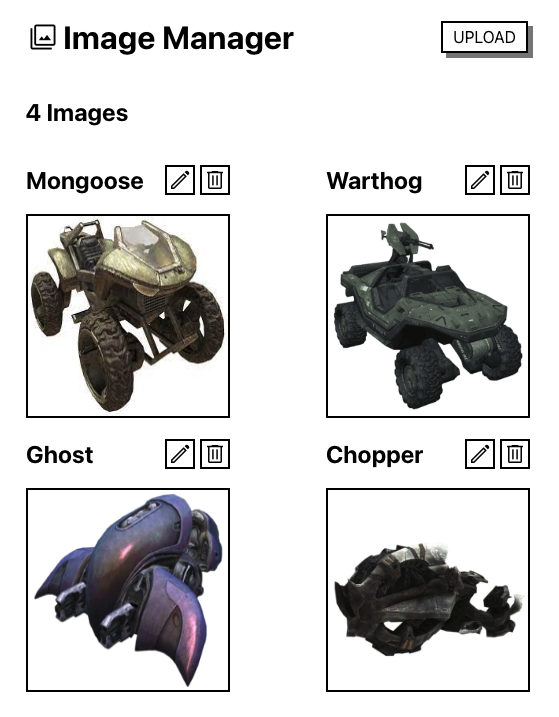
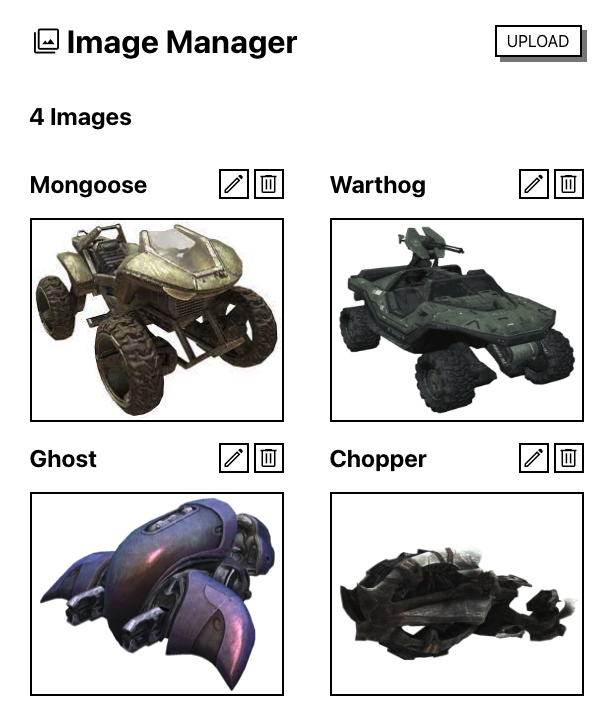
updated image width and readme

diff --git a/src/App.css b/src/App.css
@@ -4,7 +4,7 @@
   display: flex;
   justify-content: space-between;
   align-items: center;
-  width: 600px;
+  width: 650px;
   margin: auto;
   padding-top: 30px;
 }
@@ -36,7 +36,7 @@
 
 .home-counter {
   width: 600px;
-  margin-left: 95px;
+  margin-left: 45px;
 }
 
 /*IMAGE TILES*/
@@ -49,7 +49,7 @@
 }
 
 .image-tile {
-  width: 200px;
+  width: 250px;
   height: 200px;
   border: solid 2px black;
 }
@@ -171,6 +171,6 @@
 
 .edit-page-image {
   margin-top: 30px;
-  width: 200px;
+  width: 250px;
   height: 200px;
 }
